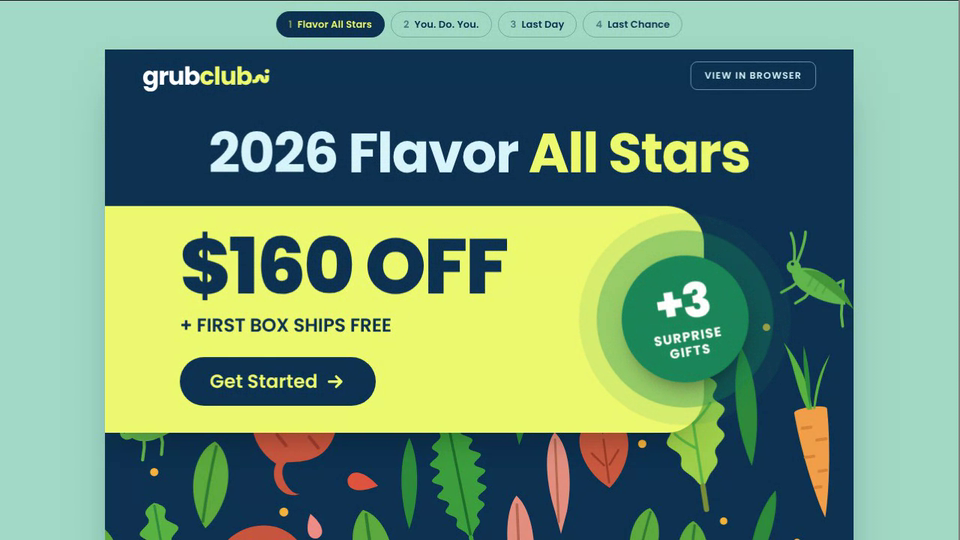
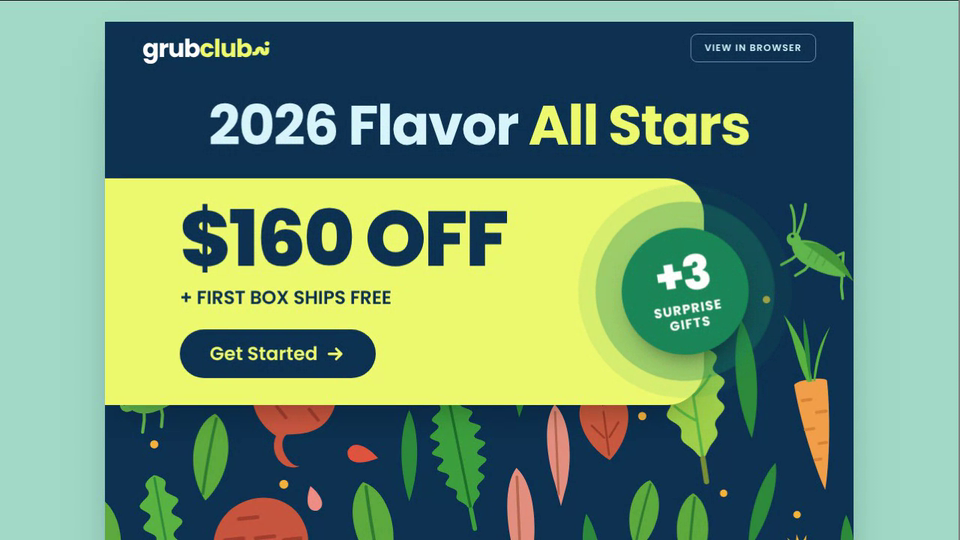
Flavor All Stars: design switcher moves into the header beside Desktop / Mobile
Claude-Session: https://claude.ai/code/session_01AHeBdyyngqxczdkvkomgou

diff --git a/flavor-all-stars/index.html b/flavor-all-stars/index.html
@@ -27,16 +27,16 @@ nav.back .ctl .pp svg{width:12px;height:12px;fill:currentColor}
 nav.back b{flex:none;white-space:nowrap}
 nav.back .ctl button{white-space:nowrap}
 
-/* design selector */
-#picker{flex:none;display:flex;justify-content:center;gap:8px;padding:14px 20px 0;background:var(--mint);overflow-x:auto;scrollbar-width:none}
-#picker::-webkit-scrollbar{display:none}
-#picker button{flex:none;font:600 13px/1 Poppins,sans-serif;letter-spacing:.01em;color:var(--navy);background:transparent;border:1.5px solid rgba(14,50,81,.28);border-radius:999px;padding:10px 16px;cursor:pointer;white-space:nowrap;transition:background .2s,color .2s,border-color .2s}
-#picker button i{font-style:normal;opacity:.55;margin-right:7px}
-#picker button:hover{border-color:var(--navy)}
-#picker button[aria-selected=true]{background:var(--navy);color:var(--kiwi);border-color:var(--navy)}
-#picker button:focus-visible{outline:3px solid var(--navy);outline-offset:2px}
+/* design selector, in the header next to Desktop / Mobile */
+nav.back b{flex:0 1 auto;min-width:0}
+nav.back .ctl{min-width:0;overflow-x:auto;scrollbar-width:none}
+nav.back .ctl::-webkit-scrollbar{display:none}
+nav.back .ctl>div{display:flex;align-items:center;gap:4px}
+nav.back .ctl .sep{flex:none;width:1px;height:18px;background:#333;margin:0 10px}
+nav.back .ctl button{flex:none}
+@media (max-width:900px){nav.back .ctl .sep,nav.back .ctl>div[role=group]{display:none}}
 
-#scroller{flex:1;min-height:0;overflow-y:auto;overflow-x:hidden;background:var(--mint);scrollbar-width:thin;padding:16px 20px 64px}
+#scroller{flex:1;min-height:0;overflow-y:auto;overflow-x:hidden;background:var(--mint);scrollbar-width:thin;padding:28px 20px 64px}
 #frame{width:min(1000px,100%);margin:0 auto;transition:width .5s cubic-bezier(.2,.8,.2,1)}
 #frame.mobile{width:min(390px,100%)}
 .email{container-type:inline-size;position:relative;background:var(--navy);color:var(--navy);overflow:hidden;box-shadow:0 30px 60px -28px rgba(14,50,81,.55)}
@@ -188,14 +188,8 @@ footer p{margin:1.8cqw 0 0;max-width:62cqw;font-size:max(8.5px,1.05cqw);line-hei
 </head>
 <body>
 <nav class="back" aria-label="Sandbox"><a href="../">Sandbox</a><span>/</span><a href="../">Back to all projects</a><span>/</span><b>Grubclub Offer Emails</b>
-  <div class="ctl" role="group" aria-label="Preview size"><button data-v="desktop" class="on">Desktop</button><button data-v="mobile">Mobile</button></div>
+  <div class="ctl"><div id="picker" role="tablist" aria-label="Email design"><button role="tab" aria-selected="true" data-i="0" class="on">Flavor All Stars</button><button role="tab" aria-selected="false" data-i="1">You. Do. You.</button><button role="tab" aria-selected="false" data-i="2">Last Day</button><button role="tab" aria-selected="false" data-i="3">Last Chance</button></div><span class="sep"></span><div role="group" aria-label="Preview size"><button data-v="desktop" class="on">Desktop</button><button data-v="mobile">Mobile</button></div></div>
 </nav>
-<div id="picker" role="tablist" aria-label="Email design">
-  <button role="tab" aria-selected="true" data-i="0"><i>1</i>Flavor All Stars</button>
-  <button role="tab" aria-selected="false" data-i="1"><i>2</i>You. Do. You.</button>
-  <button role="tab" aria-selected="false" data-i="2"><i>3</i>Last Day</button>
-  <button role="tab" aria-selected="false" data-i="3"><i>4</i>Last Chance</button>
-</div>
 <main id="scroller"><div id="frame">
 
 <!-- 1 Flavor All Stars -->
@@ -378,7 +372,7 @@ $$('.rv').forEach(r=>io.observe(r));
 /* design selector */
 const mails=$$('.email'),tabs=$$('#picker button');
 function pick(i,fromHash,first){mails.forEach((m,j)=>{m.hidden=j!==i;m.classList.remove('go')});
-  tabs.forEach((b,j)=>b.setAttribute('aria-selected',j===i));$('#scroller').scrollTop=0;
+  tabs.forEach((b,j)=>{b.setAttribute('aria-selected',j===i);b.classList.toggle('on',j===i)});$('#scroller').scrollTop=0;
   if(first){mails[i].classList.add('nt','go');requestAnimationFrame(()=>requestAnimationFrame(()=>mails[i].classList.remove('nt')))}
   else requestAnimationFrame(()=>requestAnimationFrame(()=>mails[i].classList.add('go')));
   try{if(!fromHash)history.replaceState(null,'','#'+(i+1))}catch(e){}}
